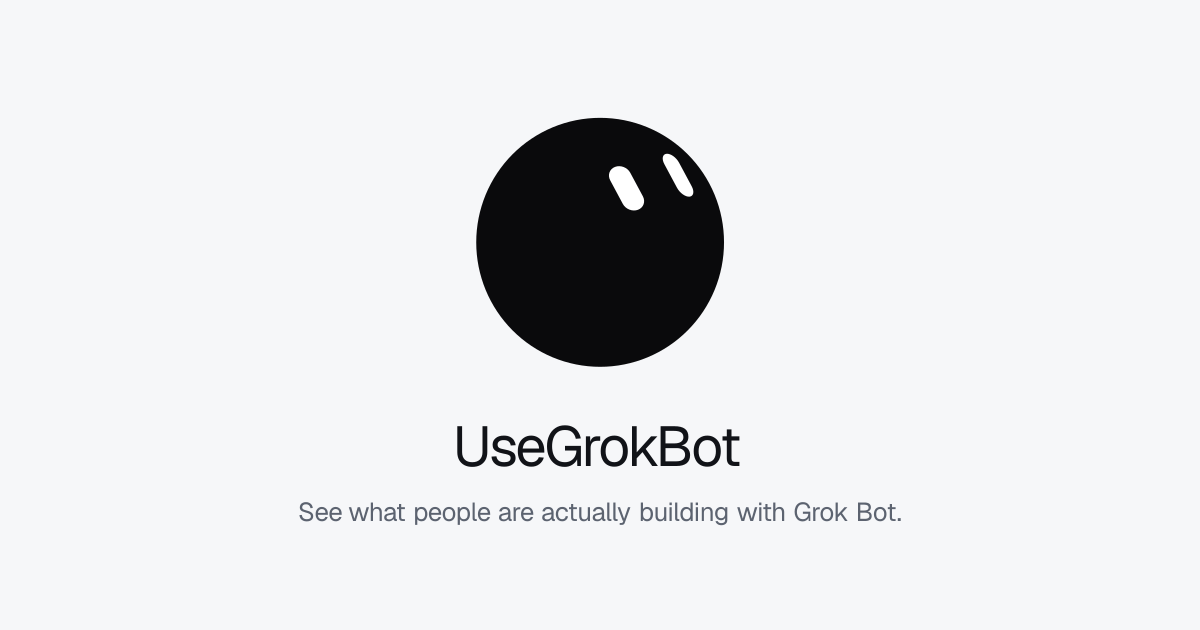
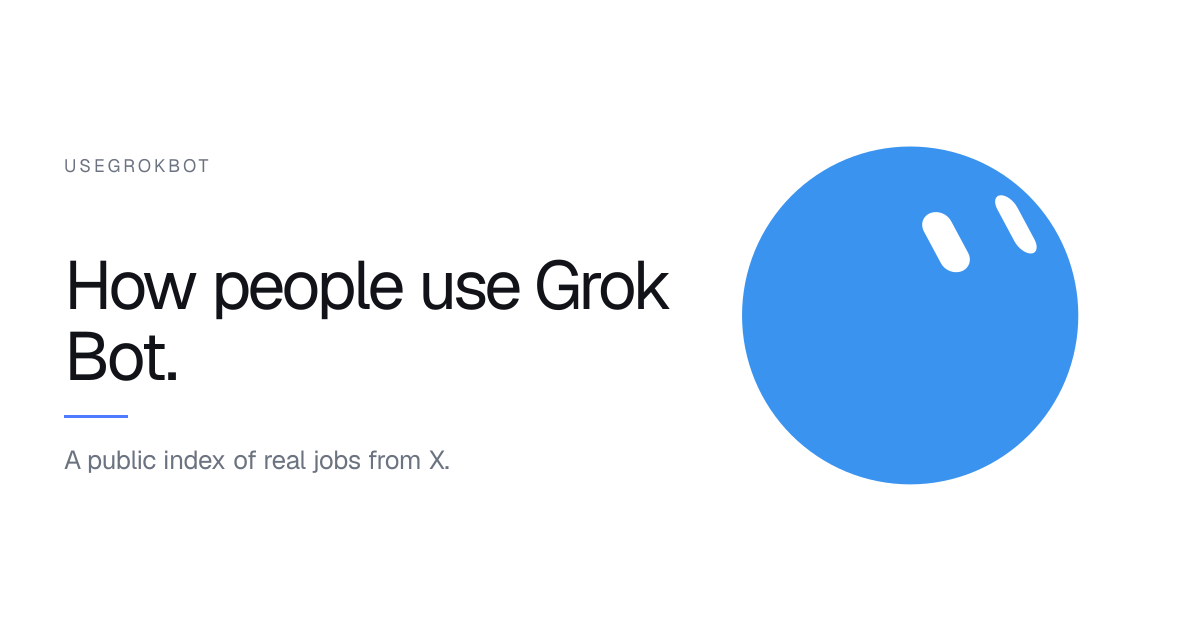
Serve a large X link card with a full bot poster, and let crawlers read OG tags on /.
Social crawlers now get the English page without a 307, so the image is not dropped.

diff --git a/app/opengraph-image.tsx b/app/opengraph-image.tsx
@@ -1,14 +1,14 @@
 import { ImageResponse } from "next/og";
-import { BOT_INK, BOT_PAPER, botLogoDataUri } from "@/lib/bloub/logo-svg";
+import { botLogoDataUri } from "@/lib/bloub/logo-svg";
 import { site } from "@/lib/site";
 
-export const alt = `${site.name} — ${site.tagline}`;
+export const alt = `${site.name} — How people use Grok Bot.`;
 export const size = { width: 1200, height: 630 };
 export const contentType = "image/png";
 export const runtime = "nodejs";
 
 export default function OpenGraphImage() {
-  const bot = botLogoDataUri({ ink: BOT_INK, size: 512 });
+  const bot = botLogoDataUri({ ink: "#3b93f0", size: 512 });
 
   return new ImageResponse(
     (
@@ -17,41 +17,73 @@ export default function OpenGraphImage() {
           width: "100%",
           height: "100%",
           display: "flex",
-          flexDirection: "column",
-          alignItems: "center",
-          justifyContent: "center",
-          background: BOT_PAPER,
-          gap: 28,
+          background: "#ffffff",
+          padding: "56px 64px",
         }}
       >
-        <img src={bot} width={280} height={280} alt="" />
         <div
           style={{
             display: "flex",
             flexDirection: "column",
-            alignItems: "center",
-            gap: 12,
+            justifyContent: "center",
+            width: 620,
+            height: "100%",
+            gap: 72,
           }}
         >
           <div
             style={{
-              fontSize: 56,
-              fontWeight: 560,
-              letterSpacing: "-0.04em",
-              color: "#111318",
+              fontSize: 18,
+              fontWeight: 500,
+              letterSpacing: "0.16em",
+              textTransform: "uppercase",
+              color: "#6b7280",
             }}
           >
             {site.name}
           </div>
-          <div
-            style={{
-              fontSize: 26,
-              color: "#5c6370",
-              letterSpacing: "-0.02em",
-            }}
-          >
-            How people use Grok Bot.
+
+          <div style={{ display: "flex", flexDirection: "column", gap: 24 }}>
+            <div
+              style={{
+                fontSize: 68,
+                fontWeight: 500,
+                letterSpacing: "-0.05em",
+                color: "#111318",
+                lineHeight: 1.05,
+              }}
+            >
+              How people use Grok Bot.
+            </div>
+            <div
+              style={{
+                width: 64,
+                height: 3,
+                background: "#4f7cff",
+              }}
+            />
+            <div
+              style={{
+                fontSize: 26,
+                color: "#6b7280",
+                letterSpacing: "-0.02em",
+                lineHeight: 1.35,
+              }}
+            >
+              A public index of real jobs from X.
+            </div>
           </div>
+        </div>
+
+        <div
+          style={{
+            display: "flex",
+            flex: 1,
+            alignItems: "center",
+            justifyContent: "center",
+          }}
+        >
+          <img src={bot} width={380} height={380} alt="" />
         </div>
       </div>
     ),

diff --git a/proxy.ts b/proxy.ts
@@ -18,7 +18,15 @@ const SKIP = new Set([
   "twitter-image",
 ]);
 
+const SOCIAL_CRAWLER =
+  /Twitterbot|facebookexternalhit|Facebot|LinkedInBot|Slackbot|WhatsApp|TelegramBot|Discordbot|Iframely|Embedly|redditbot|Pinterest|Googlebot/i;
+
+function isSocialCrawler(request: NextRequest) {
+  return SOCIAL_CRAWLER.test(request.headers.get("user-agent") ?? "");
+}
+
 function detectUrlLocale(request: NextRequest): UrlLocale {
+  if (isSocialCrawler(request)) return DEFAULT_URL_LOCALE;
   const cookie = request.cookies.get(LOCALE_COOKIE)?.value;
   if (cookie && isUrlLocale(cookie)) return cookie;
   return detectUrlLocaleFromHeader(request.headers.get("accept-language"));
@@ -63,6 +71,14 @@ export function proxy(request: NextRequest) {
   const locale = detectUrlLocale(request);
   const url = request.nextUrl.clone();
   url.pathname = pathname === "/" ? `/${locale}` : `/${locale}${pathname}`;
+
+  // Crawlers often skip 307s and never see og:image. Serve the locale page in place.
+  if (isSocialCrawler(request)) {
+    const headers = new Headers(request.headers);
+    headers.set("x-url-locale", locale);
+    return NextResponse.rewrite(url, { request: { headers } });
+  }
+
   const response = NextResponse.redirect(url, 307);
   response.cookies.set(LOCALE_COOKIE, locale, {
     path: "/",

diff --git a/lib/seo.ts b/lib/seo.ts
@@ -50,13 +50,15 @@ export function pageMeta({
   return {
     title,
     description,
-    robots: index ? { index: true, follow: true } : { index: false, follow: false },
+    robots: index
+      ? { index: true, follow: true, "max-image-preview": "large" }
+      : { index: false, follow: false },
     alternates: {
       canonical: url,
       languages: languageAlternates(path),
     },
     openGraph: {
-      title,
+      title: title.includes(site.name) ? title : `${title} | ${site.name}`,
       description,
       url,
       siteName: site.name,
@@ -67,7 +69,7 @@ export function pageMeta({
     },
     twitter: {
       card: "summary_large_image",
-      title,
+      title: title.includes(site.name) ? title : `${title} | ${site.name}`,
       description,
       images: [image],
     },

diff --git a/app/[locale]/layout.tsx b/app/[locale]/layout.tsx
@@ -47,6 +47,7 @@ export async function generateMetadata({
       "apple-itunes-app": `app-id=${site.grokBotAppId}`,
     },
     openGraph: {
+      title: `${messages[locale].home.title} | ${site.name}`,
       siteName: site.name,
       type: "website",
       locale: ogLocale[raw],
@@ -61,11 +62,13 @@ export async function generateMetadata({
     },
     twitter: {
       card: "summary_large_image",
+      title: `${messages[locale].home.title} | ${site.name}`,
       images: [`${site.url}/og.png`],
     },
     robots: {
       index: true,
       follow: true,
+      "max-image-preview": "large",
     },
   };
 }
